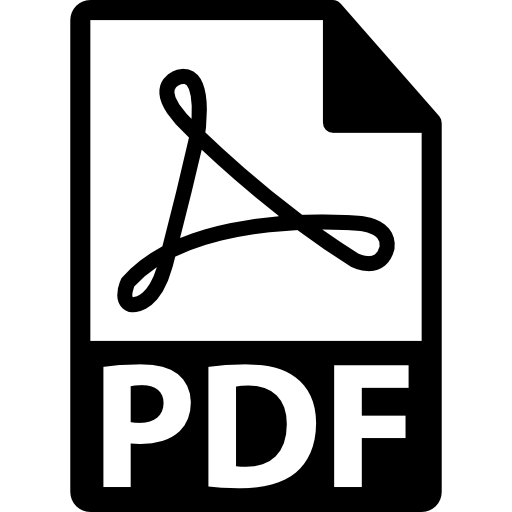
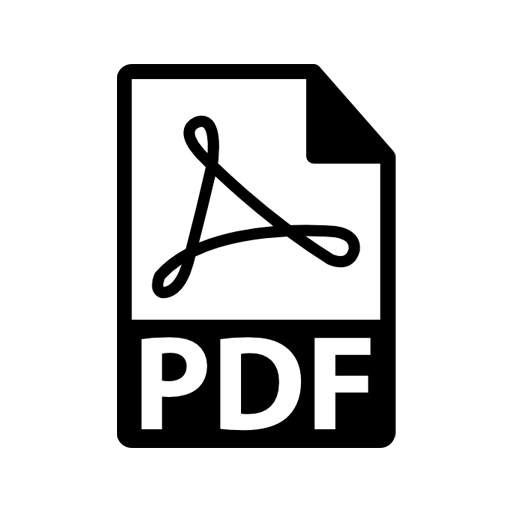
1 - update pdf image and small tweaks

diff --git a/src/components/FileUp/FileUp.js b/src/components/FileUp/FileUp.js
@@ -16,7 +16,6 @@ class FileUp extends Component {
   }
 
   onDrop(files, rejected) {
-    console.log(rejected);
     const max = this.props.maxFiles;
     const filesCombined = [...this.state.files, ...files];
 
@@ -97,10 +96,10 @@ class FileUp extends Component {
             : null}
           {this.state.rejected.length > 0 ?
             <div>
-              <p>One or more files were rejected</p>
+              <p>Rejected file(s), wrong types</p>
               <ul>
                 {
-                  this.state.rejected.map(f => <li key={f.name}>{f.name} - {f.size} bytes</li>)
+                  this.state.rejected.map(f => <li key={f.name}>{f.name}</li>)
                 }
               </ul>
             </div>
